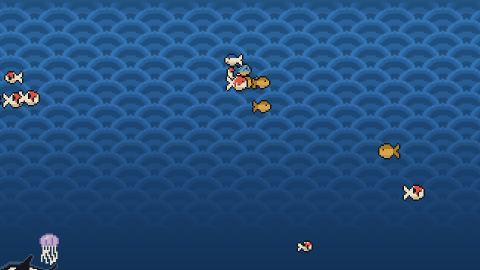
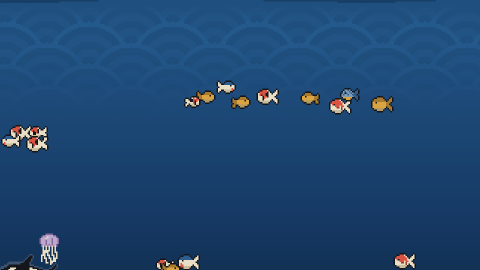
Ukiyo-e: calmer Hokusai crest line and quieter Seigaiha, README critique, preview

diff --git a/contents/ui/code/themes.js b/contents/ui/code/themes.js
@@ -74,7 +74,7 @@ var THEMES = [
     {
         id: "ukiyoe",
         name: "Ukiyo-e",
-        description: "Japanese woodblock print",
+        description: "Japanese woodblock print with quiet waves",
         usesDayNight: true,
         usesWaterColors: false
     }

diff --git a/contents/themes/ukiyoe/README.md b/contents/themes/ukiyoe/README.md
@@ -19,9 +19,9 @@ offscreen renders.
 
 Twenty traditional pigments (`PALETTE`), muted and harmonious: sumi black `#14161c`, indigo `#0a1a2e`, washi cream
 `#e8dfc6` (foam, highlights), beni vermilion `#d95343`, ukon ochre `#d9a441`, malachite `#4f8a5b`, wisteria
-`#8a6a9c`, asagi blue-grey, rock browns and sand tones, each with a deep shade. Every opaque texel of every sprite,
-the surface strip and the seabed is exactly one of them (a test checks it). Only the water layers are blends: a smooth
-bokashi plus the pattern offsets.
+`#8a6a9c`, asagi blue-grey, rock browns and sand tones, each with a deep shade. Every opaque texel of every sprite
+and the seabed is exactly one of them, and the surface strip is the palette plus its variant's five blues and two creams
+(a test checks it). Only the water layers are blends: a smooth bokashi plus the pattern offsets.
 
 ## Scale
 
@@ -29,25 +29,59 @@ One texel is a whole number of device pixels: `GRID_ROWS = 360` texel rows (3 px
 (`Ambient.qml`) is drawn in a texel world; creatures are placed in screen pixels so they glide, but drawn at the same
 texel size, nearest-neighbour.
 
+## The wave form: what was wrong, and the fix
+
+The owner found the waves tiring and sloppy. Looking at zoomed crops, both wave layers were at fault.
+
+What was wrong:
+
+- **Surface strip.** One 64-texel crest drawn ten times in a row: every 192 px the same crest, same size, same lean,
+  same claws, same two foam dots. A perfectly regular row reads as a machine, not as water. The crests were
+  hand-stepped pixel runs with uneven step lengths (jaggies), four foam claws of 1-2 texels with 1-texel gaps (a
+  stipple of cream, outline, cream, outline), loose 2x2 spray flecks, and under the row a hard, perfectly straight
+  dark band with no relation to the crests.
+- **Seigaiha.** Scales of radius 16 texels (48 px), many rows of them across a third of the screen, drawn in two
+  close blues with a lighter 2-texel outline that was a luminance step of 34 levels (13 % of full scale), over the
+  whole upper sea and fading out only at row 210 (58 % of the height). That is a dense, high-contrast, high-frequency
+  pattern behind everything that moves: it competes with the fish, and the eye keeps trying to resolve it. The
+  overlaps also left small bat-shaped notches.
+
+What changed:
+
+- **Crests** (`surface-<n>.png`, now 640x26 texels = 1920 px at 1080p, so it is drawn once and never repeats on a
+  1080p screen): ten crests of different size (4 to 16 texels high), spacing (47 to 92 texels), lean (three curl to
+  the left) and form: two large curlers with three claw fingers (clean tapering fills), three mid crests (hollow
+  barrel, one swept lip or one finger) and five small ripples between. Every crest is built from smooth splines (a long concave back
+  slope that rolls into a round curl with a dark hollow barrel under the lip), rasterised at 8x and cut to texels
+  by majority coverage, so each slope keeps one steady step rhythm. A cleanup removes 1-texel channels, pinholes
+  and foam specks. The outline is one indigo texel everywhere; the foam is two flat creams (day: the washi
+  pigments; dusk and night: dimmer creams so the white never glares). The wave line itself is a long, gentle swell
+  of at most +-1 texel. Under it runs a two-tone undertow (deep and mid blue) that follows the swell and melts into
+  the sea. Nothing in the strip moves.
+- **Seigaiha**: scale radius 28 texels (84 px, 1.75x), rings 5 texels, outer arc 3 texels, outline lighter by only
+  about 10 levels of luminance (4 %), alternate rings by about 5; the pattern fades in under the wave line and is
+  gone by row 125, a third of the screen height, so the lower two thirds are plain bokashi. The tile is 672 wide
+  (12 scales), wider than a 1080p screen in texels, so no seam is visible.
+
 ## Water: bokashi and Seigaiha
 
-- Three baked 640x300 texel images (`water-0` night, `water-1` dusk, `water-2` day), chosen by daylight in visible
-  steps only. Each is a vertical bokashi from a lighter Prussian blue at the surface (`#3a7aa6` .. `#1f4f7e` in
+- Three baked 672x300 texel images (`water-0` night, `water-1` dusk, `water-2` day), chosen by daylight in visible
+  steps only. Each is a vertical bokashi from a lighter Prussian blue at the surface (`#2f6a96` .. `#1f4f7e` in
   the day) through `#1b4573`, `#153862`, `#0e2a48` to indigo `#0a1a2e` at the floor, in steps of 3 texel rows (a
   step is at most 4 levels per channel, so it never reads as a stripe).
-- The upper sea carries the **Seigaiha** (blue ocean waves) pattern: overlapping concentric wave scales of radius 16
-  texels, rings 4 texels wide in two close blues, the outer arc 2 texels wide in a lighter blue (never a 1-texel
-  line). It fades in under the surface strip, is full strength down to row 90 and gone by row 210; below that the sea
-  is plain bokashi. The tile is 640 wide (20 scales), so it repeats without a seam.
+- The upper sea carries the **Seigaiha** (blue ocean waves) pattern: large overlapping concentric wave scales of
+  radius 28 texels, rings 5 texels wide in two very close blues, the outer arc 3 texels wide and only slightly
+  lighter (never a 1-texel line). It fades in under the surface strip and is gone by row 125; below that the sea is
+  plain bokashi.
 - There are no strokes and no dashes anywhere in the water.
 
 ## Surface
 
-`surface-<n>.png` (128x18, two wave cells of 64 texels, one per daylight variant): wave bodies in three flat blues
-that lighten downward and melt into the sea, a cream foam cap on each crest and four tapering foam claws hanging
-down the curling front, with indigo keyblock outlines and two cream flecks of spray. The strip sits at texel row 18
-(54 px), so the first drawn pixel is below the 54 px top panel. The simulation keeps creature centres below texel
-row 44 (`SURFACE.floor`, `sim.top`), so a fish never swims over the crests.
+`surface-<n>.png` (640x26, one per daylight variant): the crest line described above, painted in five flat blues
+(deep, mid, the sea's own top blue, the pale sky) plus two creams per variant, with indigo keyblock outlines. The
+strip sits at texel row 18 (54 px), so the first drawn pixel is below the 54 px top panel; the biggest crest outline starts
+at texel row 19 (57 px). The simulation keeps creature centres below texel row 44 (`SURFACE.floor`, `sim.top`), the row where
+the strip ends, so a fish never swims over the crests.
 
 ## Seabed and kelp
 
@@ -83,11 +117,13 @@ row 44 (`SURFACE.floor`, `sim.top`), so a fish never swims over the crests.
 ## Measured (1920x1080, default settings, `node tests/ukiyoe-measure.js`)
 
 - Calm backdrop: at most 0.70 % of pixels differ between frames 0.1-10 s apart (limit 2 %, only the kelp moves); the
-  fastest pixel changes 0.49 times per second (limit 2 Hz).
-- Glide: residual of on-screen x against a straight line 0.68 px (limit 1); sprites land on whole screen pixels.
-- Mean luminance (gamma-encoded): day 25.8 %, crowded 26.5 %, feeding 26.1 %, stress 25.6-25.7 %, night 16.1 %. The
-  limit for this theme is 28 % (the comfort rule is 25 % for the one-colour themes; colour costs a little more).
-- Busy 24x24 px windows (period <= 2 texels) in the creature-free backdrop: none flagged (worst 45 %, flag at 50 %).
+  fastest pixel changes 0.49 times per second (limit 2 Hz). The wave strip and the Seigaiha are static.
+- Glide: residual of on-screen x against a straight line 0.67 px (limit 1); sprites land on whole screen pixels.
+- Mean luminance (gamma-encoded): day 23.9 % (was 25.8 % before the calmer waves), crowded 25.2 %, feeding 24.2 %,
+  stress 23.7-23.8 %, night 14.6 %. The limit for this theme is 28 % (25 % for the one-colour themes) and the day scene
+  must not be brighter than the previous design (checked).
+- Busy 24x24 px windows (period <= 2 texels) in the creature-free backdrop: none flagged (worst 47 %, flag at 50 %).
+  Surface strip: no 24 px window above 47 %, one-column zigzags in the wave line 12 at most, no foam piece under 8 texels.
 - Sizes: fish 39x27 px, orca 3.08 fish lengths, angler 1.46, jelly 1.08, worm 0.31; seabed 8.9 %, tallest kelp 17.8 %.
 - Stress 1.5: at most 1.63 alarm/normal flips per second per fish (limit 2); tremble at most 2.13 changes per second
   (limit 4).
